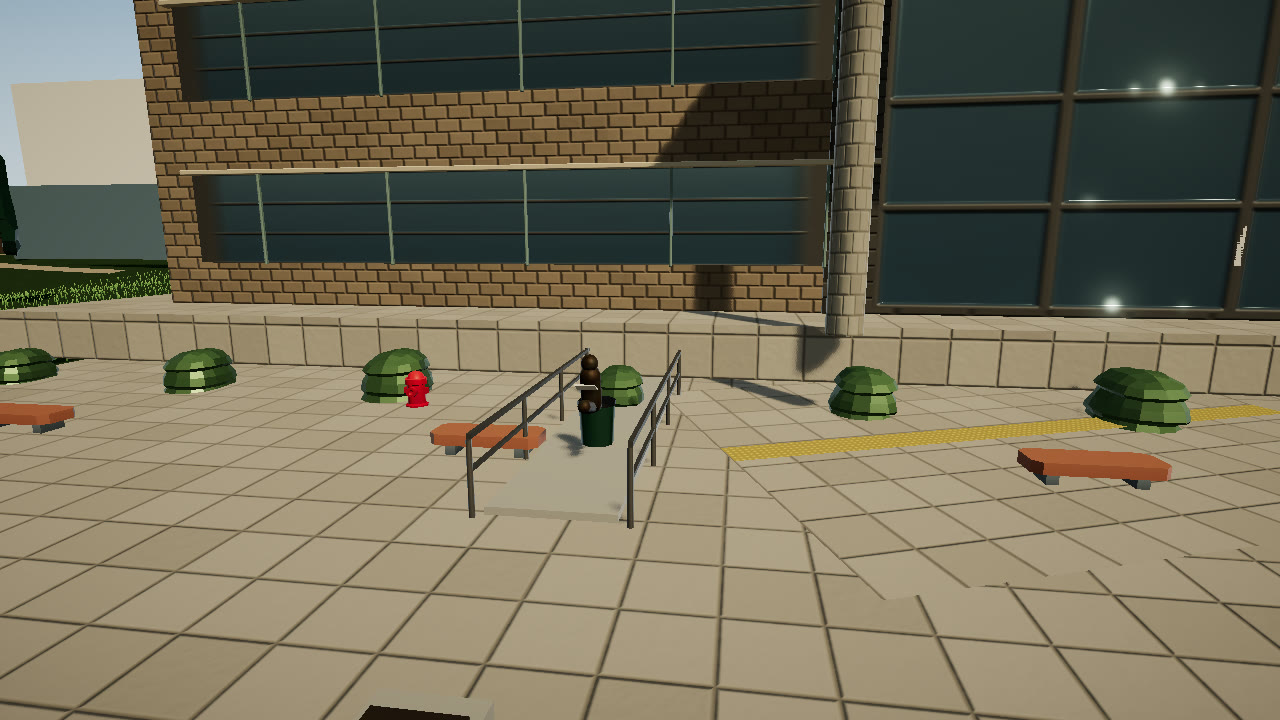
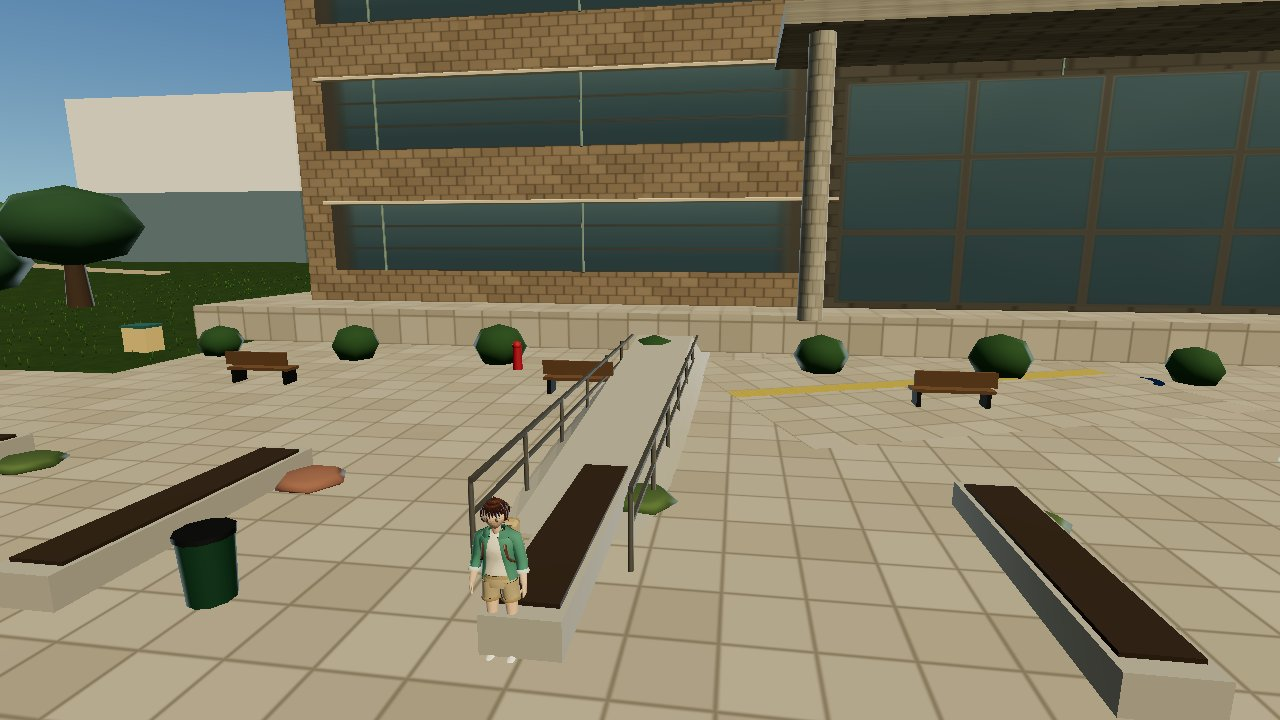
Record the library ramp railings on this host.
The shots use the current ramp. The first route close hit EIO and the rerun passed.

diff --git a/docs/integration/HANDOFF.md b/docs/integration/HANDOFF.md
@@ -4,18 +4,18 @@
 
 ## 現在
 
-- 這次讓活著的學期繼續時回到存檔裡的公共室內。接到 `origin/main` `53ec394`。遊戲程式是 `42b5e59`。整合 PR #155。來源是 PR #122 的 `e2d26ff`，不是整個 PR。
-- 被擊倒再繼續，以及直接匯入，仍站在門口。標題畫面在開始遊玩前仍畫校園。球場不會被當成可繼續的室內。
-- 跨系統路線在 `http://127.0.0.1:8151/` 通過：大門經驗 20、筆記 19；補給後經驗 44、筆記 21、學期期中；突襲小考 65→45；第二客戶端看到期中；`revision_conflict`；斷線時雲端經驗停在 47；登出 401。`pageErrors` 空。
-- PR #122 的頭是 `3181004`。剩下的遊戲差是測試用的 `getCamera`、他們的腳本，和窄螢幕互動鈕。不要單獨合併，也不要帶進 `docs/full-integration`。
+- 這次讓圖書館坡道左右各有一道欄杆。接到 `origin/main` `4793fde`。遊戲程式是 `70cf72c`。來源是 PR #132 `1dce114`。
+- 欄杆放在現在的坡道兩側，離中線 0.95 m，立柱含兩端。不回到舊的南牆座標。克難坡沒有欄杆。1280×720 與 390×780 都看得到兩側橫桿和立柱。
+- 跨系統路線在 `http://127.0.0.1:8152/` 通過：大門經驗 20、筆記 19；補給後經驗 44、筆記 21、學期期中；突襲小考 65→45；第二客戶端看到期中；`revision_conflict`；斷線時雲端經驗停在 47；登出 401。`pageErrors` 空。第一次關閉瀏覽器時出現 EIO，同一站重跑通過。
+- PR #122 的頭仍是 `3181004`。剩下的差是測試用的 `getCamera`、他們的腳本，和窄螢幕互動鈕。不要單獨合併，也不要帶進 `docs/full-integration`。
 
-## 本輪已驗證（室內繼續）
+## 本輪已驗證（坡道欄杆）
 
-`npm test` 314 通過。`node --experimental-transform-types scripts/integration-route.mjs` 走 `http://127.0.0.1:8151/`。幀時間是 SwiftShader。
+`npm test` 315 通過。`node --experimental-transform-types scripts/integration-route.mjs` 走 `http://127.0.0.1:8152/`。幀時間是 SwiftShader。
 
 ## 下一步
 
-先 `git fetch`。室內繼續已在整合 PR #155，遊戲程式是 `42b5e59`。靜態產物是 `AdventureApp-CsOGkfs-.js`。PR #32 的 `1fc5887` 仍不合併。來源 `e2d26ff` 不是祖先，不要單獨合併 PR #122。不要單獨合併 PR #148。PR #153、#150、#149、#147、#146、#145、#144、#143、#142、#141、#140、#138、#139、#135、#131、#137、#128、#133、#129、#110、#108、#107、#105、#102、#101、#99、#97、#96、#93、#91、#90、#88、#86、#85、#82、#80、#79、#77、#75、#73、#72、#70、#68、#67、#65、#63、#61、#59、#56、#54、#53、#51 的程式已經在更早的整合裡，也不要再單獨合併。下一項是坡道欄杆（PR #132，`1dce114`）、坡道旁的長椅與花台（PR #152，`30580d3`）、坡道旁的讀書人（PR #151，`c44667c`）、海事博物館船首（PR #127，`d0fd98b`）、會文館（PR #111，`412b130`）、司令臺台面（PR #113，`f2750c7`）、低畫質行人（PR #115，`9672ff3`）、美術傳輸預算（PR #116，`9a3d594`）、宮燈大道四個時段（PR #118，`266e4b7`）、宮燈鏡頭（PR #121，`3ce5f17`）、路燈燈頭（PR #124，`2b45515`）。先看它們目前的 head，再各自整合，不要單獨合併。三角形仍用 `7507c59` 那次重測。
+先 `git fetch`。坡道欄杆已接到這條整合分支，遊戲程式是 `70cf72c`。靜態產物是 `AdventureApp-Cl3Ho6pe.js`。PR #32 的 `1fc5887` 仍不合併。來源 `1dce114` 不是祖先，不要單獨合併 PR #132。不要單獨合併 PR #122。PR #155、#153、#150、#149、#147、#146、#145、#144、#143、#142、#141、#140、#138、#139、#135、#131、#137、#128、#133、#129、#110、#108、#107、#105、#102、#101、#99、#97、#96、#93、#91、#90、#88、#86、#85、#82、#80、#79、#77、#75、#73、#72、#70、#68、#67、#65、#63、#61、#59、#56、#54、#53、#51 的程式已經在更早的整合裡，也不要再單獨合併。下一項是坡道旁的長椅與花台（PR #152，`30580d3`）、坡道旁的讀書人（PR #151，`c44667c`）、未引用的照片材質（PR #154，`06f41bd`）、海事博物館船首（PR #127，`d0fd98b`）、會文館（PR #111，`412b130`）、司令臺台面（PR #113，`f2750c7`）、低畫質行人（PR #115，`9672ff3`）、美術傳輸預算（PR #116，`9a3d594`）、宮燈大道四個時段（PR #118，`266e4b7`）、宮燈鏡頭（PR #121，`3ce5f17`）、路燈燈頭（PR #124，`2b45515`）。先看它們目前的 head，再各自整合，不要單獨合併。三角形仍用 `7507c59` 那次重測。
 
 INT-01 維持不動。不要新增學期選擇，也不要做第二套獎勵帳。
 

diff --git a/docs/integration/CONTRACTS.md b/docs/integration/CONTRACTS.md
@@ -70,7 +70,7 @@ URL 帶內容雜湊。幾何與 atlas 共享。卸載只走 `releaseArtInstance`
 
 教授與系主任也走這份存檔和既有 `grantQuestReward`。十二名都是虛構角色，崗位是門口外推的估計位置。同一個任務只付一次。`MAIN_INTEGRATION` 仍是 false。
 
-路燈中心若落在實體裡，會沿最近的一面推到牆外 1.2 m。圖書館名牌朝南，貼在南牆外側。燈位仍是 estimated。圖書館前的坡道從廣場升約 1.05 m 到台基，人走在這道坡上，坡面網格用同一個高度。坡度仍是 estimated。散佈的樹不種進球場、田徑場和停車場，外緣再留 3 m。植株位置仍是 estimated。沒有貼圖的球場、停車場和跑道在雨後把顏色乘小，亮度下降、粗糙度下降。晴天顏色不變。這些顏色比材質庫的濕灰還深，所以不把灰色混進去。不是實測日照。五虎崗綜合球場是兩塊有邊線、中線和球網的場，排球場有一圈邊線。標線都在草皮裡面。標線尺寸仍是 estimated。田徑場和停車場沒有這些線。覺軒花園是四根角柱和綠瓦頂，中間可以走，碰撞只在柱子。另一筆覺軒仍是坡頂。亭子周圍 6 m 不種散佈的樹。外形仍是 estimated。課程進行時，小地圖左下角寫兩個字：選系、移動、補給、普攻、技能。展開的校園地圖仍把同樣的字寫在金圈上方。窄視窗的課程條改到小地圖下方，系名不再被蓋住。活著的學期繼續時，回到存檔裡的公共室內和樓層。被擊倒再繼續，以及直接匯入，仍站在門口。標題畫面在開始遊玩前仍畫校園。球場不會被當成可繼續的室內。
+路燈中心若落在實體裡，會沿最近的一面推到牆外 1.2 m。圖書館名牌朝南，貼在南牆外側。燈位仍是 estimated。圖書館前的坡道從廣場升約 1.05 m 到台基，人走在這道坡上，坡面網格用同一個高度。坡度仍是 estimated。散佈的樹不種進球場、田徑場和停車場，外緣再留 3 m。植株位置仍是 estimated。沒有貼圖的球場、停車場和跑道在雨後把顏色乘小，亮度下降、粗糙度下降。晴天顏色不變。這些顏色比材質庫的濕灰還深，所以不把灰色混進去。不是實測日照。五虎崗綜合球場是兩塊有邊線、中線和球網的場，排球場有一圈邊線。標線都在草皮裡面。標線尺寸仍是 estimated。田徑場和停車場沒有這些線。覺軒花園是四根角柱和綠瓦頂，中間可以走，碰撞只在柱子。另一筆覺軒仍是坡頂。亭子周圍 6 m 不種散佈的樹。外形仍是 estimated。課程進行時，小地圖左下角寫兩個字：選系、移動、補給、普攻、技能。展開的校園地圖仍把同樣的字寫在金圈上方。窄視窗的課程條改到小地圖下方，系名不再被蓋住。活著的學期繼續時，回到存檔裡的公共室內和樓層。被擊倒再繼續，以及直接匯入，仍站在門口。標題畫面在開始遊玩前仍畫校園。球場不會被當成可繼續的室內。圖書館坡道左右各有一道欄杆，立柱含兩端，在 1.6 m 坡面外側。克難坡不設欄杆。欄杆位置仍是 estimated。
 
 同一條高畫質路線在遊戲程式 `7507c59` 的靜態頁重測：標題 1,204,683、戶外 1,562,527、戰鬥 1,495,745、返回 1,437,689，都低於 1.6 M。室內 46,548。幀時間是這台 SwiftShader，不是手機或 RTX 3060。手機圖示只改 CSS，沒有重測三角形。
 

diff --git a/docs/integration/STATUS.md b/docs/integration/STATUS.md
@@ -1,13 +1,13 @@
 # 整合狀態
 
-更新：2026-11-12。活著的學期繼續時，回到存檔裡的公共室內。被擊倒再繼續，站在門口。標題畫面仍是校園。幀時間仍是 SwiftShader。
+更新：2026-11-12。圖書館坡道左右各有一道欄杆，立柱含兩端。欄杆跟著現在的坡道。克難坡仍不設欄杆。幀時間仍是 SwiftShader。
 本文件只記實際程式、PR 與本輪驗收。不把 M1 或 M2 當成整款遊戲完成，也不以 PR 或文件數量估算完成率。
 
 ## 三條線
 
 | 線 | 目前成果 | 開放 PR | 狀態 |
 | --- | --- | --- | --- |
-| 美術與場景 | 小地圖在課程進行時寫兩個字。窄視窗的課程條在小地圖下方。 | 來源 PR #148 `9f89d1c`。整合 PR #153 | `merged` |
+| 美術與場景 | 圖書館坡道左右各有一道欄杆。克難坡仍不設欄杆。 | 來源 PR #132 `1dce114`。整合尚未開 PR | `verified` |
 | 後端 | 雲端存檔接受既有背包的 `loadout`、`gear`、隔離物品和手持設施，並拒絕白名單以外的欄位。沒有這些欄位的舊存檔仍可上傳。 | 來源 `a76918e`。整合 PR #144 | `merged` |
 | 內容 | 活著的學期繼續時，回到存檔裡的公共室內。被擊倒再繼續，站在門口。 | 來源 PR #122 `e2d26ff`。整合 PR #155 | `merged` |
 
@@ -15,15 +15,15 @@
 
 ## 本輪範圍
 
-繼續學期會先匯入存檔。匯入會清掉房間並重寫檔案。活著再繼續時，用玩家剛確認的那份檔，回到公共建築的室內和樓層。被擊倒再繼續，以及直接匯入，仍站在門口。標題畫面在開始遊玩前仍畫校園，不畫室內。球場不會被當成可繼續的室內。
+圖書館坡道左右各有一道欄杆，離中線 0.95 m，在 1.6 m 坡面外側。立柱含兩端。欄杆用現在的坡道位置。克難坡沒有欄杆。1280×720 與 390×780 都看得到兩側橫桿和立柱。位置仍是 estimated。
 
 ## 路線
 
 | 項目 | 狀態 |
 | --- | --- |
-| 已製作 | 活著的學期回到存檔裡的公共室內 |
-| 已驗證 | 靜態頁 `http://127.0.0.1:8151/`。`npm test` 314 通過。跨系統路線在同一站，`pageErrors` 空 |
-| 已合併 | 是。遊戲程式 `42b5e59`。整合 PR #155。`main` 未受保護、沒有必須的 check |
+| 已製作 | 圖書館坡道兩側欄杆 |
+| 已驗證 | 靜態頁 `http://127.0.0.1:8152/`。1280×720 與 390×780 看得到兩側欄杆。`npm test` 315 通過。跨系統路線在同一站，`pageErrors` 空 |
+| 已合併 | 否。遊戲程式 `70cf72c`。`main` 未受保護、沒有必須的 check |
 | 已部署 | 否 |
 
 ## 尚未完成的遊戲範圍

diff --git a/docs/integration/VALIDATION.md b/docs/integration/VALIDATION.md
@@ -685,13 +685,21 @@ PR #122 的 head 在這輪又改到 `48b1ac6`。和 `main` 比，遊戲程式沒
 
 瀏覽器 `http://127.0.0.1:8150/`。1280×720 與 390×780 的小地圖都寫著「移動」，系名「土木工程學系」完整。頁面無錯誤。同一站跨系統路線通過：大門經驗 20、筆記 19；補給後經驗 44、筆記 21、學期期中；突襲小考 65→45、經驗停在 44；存檔重載經驗 44、筆記 21、科系 `science-理學院-2`；revision 1；第二客戶端看到期中；`revision_conflict`；斷線時雲端經驗是 47；登出 401。`pageErrors` 空。
 
-## 室內繼續（本輪）
+## 室內繼續
 
 來源 `e2d26ff` 接到 `53ec394`。只取遊戲程式和執行期測試。沒有帶進 `docs/full-integration`，也沒有改跨系統路線腳本。
 
 繼續學期會先匯入存檔，匯入會清掉房間並重寫檔案。活著再繼續時，用玩家剛確認的那份檔，回到公共建築的室內和樓層，並把房間寫回存檔。被擊倒再繼續，站在門口，房間清空。標題畫面在開始遊玩前仍畫校園。`npm run typecheck` 通過。`npm test` 314 通過。`npm run build:site` 通過，產物 `AdventureApp-CsOGkfs-.js`。
 
 瀏覽器 `http://127.0.0.1:8151/`。同一站跨系統路線通過：大門經驗 20、筆記 19；補給後經驗 44、筆記 21、學期期中；突襲小考 65→45、經驗停在 44；存檔重載經驗 44、筆記 21、科系 `science-理學院-2`；revision 1；第二客戶端看到期中；`revision_conflict`；斷線時雲端經驗是 47；登出 401。`pageErrors` 空。
+
+## 坡道欄杆（本輪）
+
+來源 `1dce114` 接到 `4793fde`。美術文件留到第 56 輪，這一輪記成第 57 輪。欄杆放在現在的坡道兩側，不回到舊的南牆座標。坡道網格留著。
+
+圖書館坡道左右各一道同長欄杆，離中線 0.95 m，立柱含兩端。克難坡沒有欄杆。`npm run typecheck` 通過。`npm test` 315 通過。`npm run build:site` 通過，產物 `AdventureApp-Cl3Ho6pe.js`。
+
+瀏覽器 `http://127.0.0.1:8152/`。1280×720 與 390×780 都看得到兩側橫桿和立柱。頁面無錯誤。同一站跨系統路線通過：大門經驗 20、筆記 19；補給後經驗 44、筆記 21、學期期中；突襲小考 65→45、經驗停在 44；存檔重載經驗 44、筆記 21、科系 `science-理學院-2`；revision 1；第二客戶端看到期中；`revision_conflict`；斷線時雲端經驗是 47；登出 401。`pageErrors` 空。第一次瀏覽器關閉時出現 EIO，同一站重跑通過。
 
 ## 本輪沒有驗的項目
 
